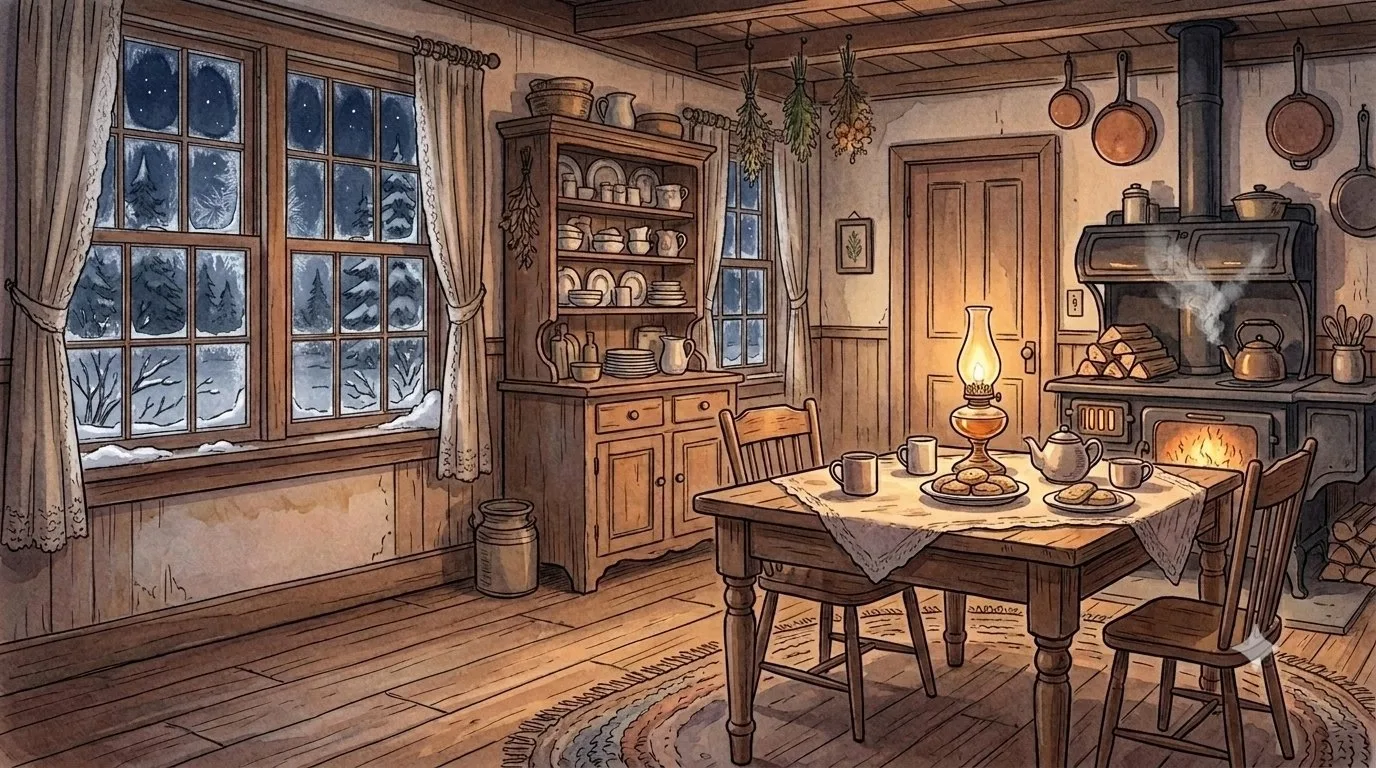
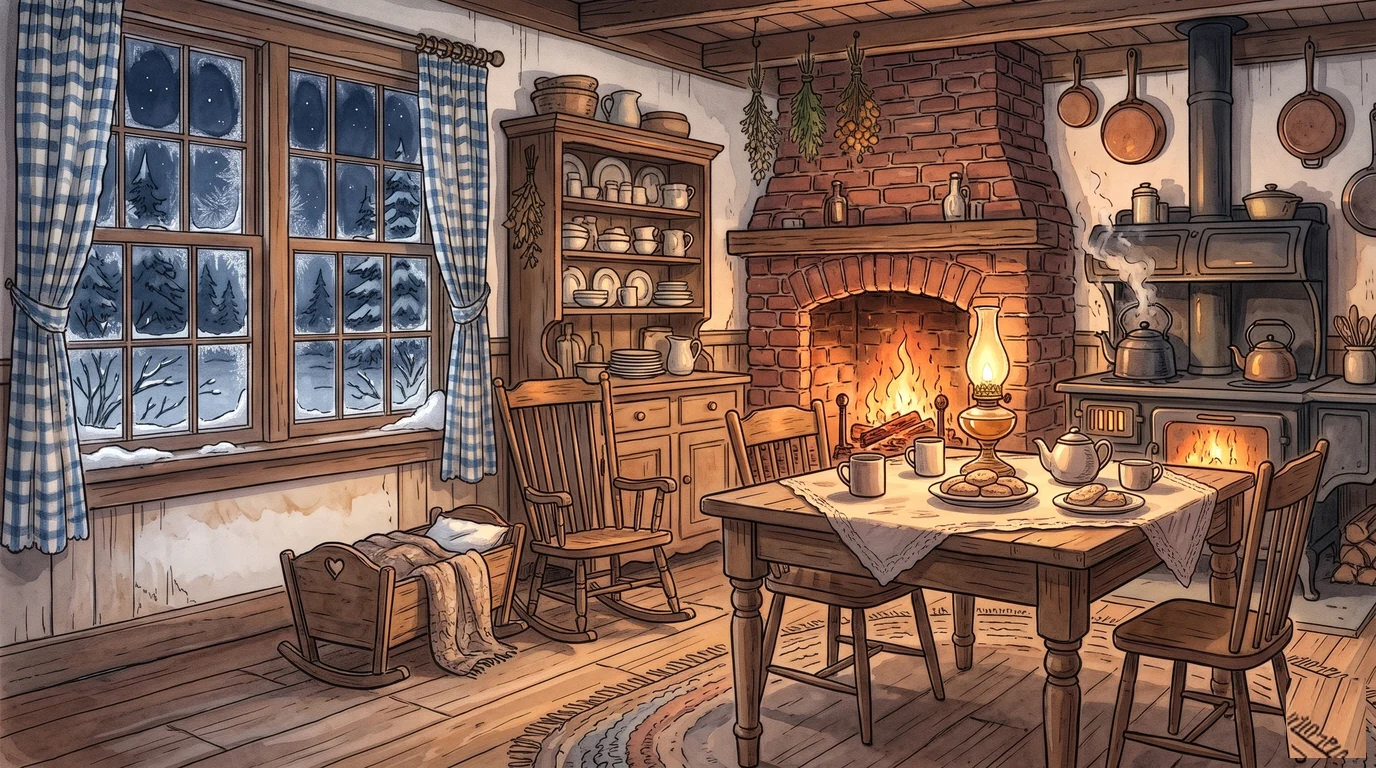
낮밤 배경 맞추기, 배리 씨네 부엌 새 그림, 인물 크기, 리본 묶기 휴대폰에서 쉽게

diff --git a/js/mini.js b/js/mini.js
@@ -488,18 +488,22 @@ MINI.trace = (m, api) => {
   tt.style.left = P[0][0] + "%"; tt.style.top = P[0][1] + "%";
   let prog = 0, down = false, off = 0, wasOff = false, devSum = 0, devN = 0, over = false;
   const toPx = p => { const r = tb.getBoundingClientRect(); return [r.left + p[0] / 100 * r.width, r.top + p[1] / 100 * r.height]; };
-  const tol = () => (m.tol || 26) * Math.max(.75, Math.min(1.2, tb.getBoundingClientRect().width / 420));
+  const touch = matchMedia("(pointer:coarse)").matches;   /* 휴대폰 손가락은 마우스보다 굵고 손가락에 가려 잘 안 보여요 */
+  const tol = () => (m.tol || 26) * Math.max(.75, Math.min(1.2, tb.getBoundingClientRect().width / 420)) * (touch ? 1.45 : 1);
+  let downAt = null, offRun = 0;
   const msg = () => api.hud(`${m.say || "점선을 따라 끝까지 그어요"} · ${Math.round(prog / (P.length - 1) * 100)}%${off ? ` · 삐뚤 ${off}번` : ""}`); msg();
   const move = (x, y) => {
     if(over) return; const r = tb.getBoundingClientRect(); tt.style.left = ((x - r.left) / r.width * 100) + "%"; tt.style.top = ((y - r.top) / r.height * 100) + "%";
     if(!down) return;
     let best = -1, bd = 1e9; for(let i = prog; i < Math.min(P.length, prog + WIN); i++){ const [px, py] = toPx(P[i]), dd = Math.hypot(px - x, py - y); if(dd < bd){ bd = dd; best = i; } }
-    if(bd > tol() * (m.wig ? 1.3 : 1.6)){ if(!wasOff){ wasOff = true; off++; SFX.no(); tb.classList.remove("shake"); void tb.offsetWidth; tb.classList.add("shake"); popAt(api, x - 40, y - 60, m.offSay || "앗, 선을 벗어났어요!"); msg(); } return; }
+    const moved = downAt ? Math.hypot(x - downAt[0], y - downAt[1]) : 99;
+    if(bd > tol() * (m.wig ? 1.3 : 1.6)){ if(moved < 18 || ++offRun < 3) return; if(!wasOff){ wasOff = true; off++; SFX.no(); tb.classList.remove("shake"); void tb.offsetWidth; tb.classList.add("shake"); popAt(api, x - 40, y - 60, m.offSay || "앗, 선을 벗어났어요!"); msg(); } return; }
+    offRun = 0;
     if(bd < tol()){ wasOff = false; devSum += bd; devN++; if(best > prog){ if((best / 9 | 0) > (prog / 9 | 0)) SFX.snip(); prog = best; $("tdone").setAttribute("d", dstr(P.slice(0, prog + 1))); msg(); } }
-    if(prog >= P.length - 2) finish();
+    if(prog >= P.length - Math.max(2, P.length * .03)) finish();   /* 끝 가까이 오면 끝(손가락이 끝점을 살짝 못 미쳐도) */
   };
-  tb.onpointerdown = e => { e.preventDefault(); const [sx, sy] = toPx(P[prog]); if(Math.hypot(sx - e.clientX, sy - e.clientY) > tol() * 1.8 && prog === 0){ popAt(api, e.clientX - 40, e.clientY - 60, "반짝이는 시작점에서 시작해요"); return; }
-    down = true; st.style.display = "none"; tb.setPointerCapture(e.pointerId); move(e.clientX, e.clientY); };
+  tb.onpointerdown = e => { e.preventDefault(); const [sx, sy] = toPx(P[prog]); if(Math.hypot(sx - e.clientX, sy - e.clientY) > tol() * (touch ? 2.6 : 1.8) && prog === 0){ popAt(api, e.clientX - 40, e.clientY - 60, "반짝이는 시작점에서 시작해요"); return; }
+    down = true; downAt = [e.clientX, e.clientY]; offRun = 0; st.style.display = "none"; tb.setPointerCapture(e.pointerId); move(e.clientX, e.clientY); };
   tb.onpointermove = e => move(e.clientX, e.clientY);
   tb.onpointerup = tb.onpointercancel = () => { down = false; };
   const finish = () => { if(over) return; over = true; tt.style.display = "none"; $("tdone").style.opacity = 0; $("tpath").style.opacity = 0;

diff --git a/js/ch6.js b/js/ch6.js
@@ -22,8 +22,8 @@ CH[6] = {
     {mini:{kind:"run", id:"snow", title:"눈길 달리기", bg:"ch6_snow", how:"다이애나와 눈 덮인 들판을 달려요. 왼쪽 아래 ▲▼ 단추로 길을 바꿔 눈더미와 쓰러진 나무를 피해요. 부딪히면 힘(♥)이 줄고, 따뜻한 등불을 지나가면 다시 차요. 갈수록 빨라져요!",
       say:"▲▼로 길을 바꿔요", time:24, obs:[{img:"run_drift", e:"❄"}, {img:"run_log", e:"🪵"}, {img:"run_rock", e:"🪨"}, {img:"run_stump", e:"🌲"}], goods:[{img:"run_lantern", e:"🏮"}], every:1150, speed:3.4, ouch:"앗, 미끄러워!", yum:"힘이 나!",
       res:{1:"몇 번 넘어졌지만 끝까지 달렸어요!", 2:"눈길을 씩씩하게 달렸어요!", 3:"바람처럼 달려 도착했어요!"}},
-     good:[["inner", "happy", "diana", "별이 총총한 밤하늘 아래를 달렸어.\n무섭기는커녕 가슴이 뛰었어."]]},
-    ["inner", "surprised", "minnie_may", "배리 씨네 부엌. 세 살 미니 메이가 뜨거운 얼굴로 숨을 쌕쌕 쉬고 있었어."],
+     good:[["inner", "happy", "diana", "별이 총총한 밤하늘 아래를 달렸어.\n무섭기는커녕 가슴이 뛰었어.", {bg:"ch6_snow"}]]},
+    ["inner", "surprised", "minnie_may", "배리 씨네 부엌. 세 살 미니 메이가 뜨거운 얼굴로 숨을 쌕쌕 쉬고 있었어.", {bg:"ch6_barry"}],
     ["inner", "dreamy", "minnie_may", "해먼드 아주머니네 쌍둥이가 후두염에 걸렸던 밤이 떠올랐어.\n그때 나는 이웃 할머니 옆에서 하나하나 도왔지.", {dream:true}],
     ["inner", "dreamy", "minnie_may", "할머니가 그러셨어. \"약도 수건도 뜨거운 물이 있어야 쓸 수 있단다.\n토하고 나면 목을 따뜻하게 감싸 주고, 그다음엔 곁에서 기다리는 거야.\"", {dream:true}],
     {mini:{kind:"slots", id:"care", title:"미니 메이 돌보기", how:"해먼드 아주머니네에서 배운 대로 차근차근 해요. 막히면 '앤의 기억'을 눌러 보세요. 그림 카드를 1번부터 4번 칸에 순서대로 놓아요. 엉뚱한 카드도 섞여 있어요! 칸에 놓은 카드를 누르면 다시 빠져요.",

diff --git a/js/ch8.js b/js/ch8.js
@@ -60,8 +60,8 @@ CH[8] = {
     ["inner", "anne_short_sad", "marilla_warm", "거울 속에는 머리가 짧은 낯선 아이가 있었어."],
     {mini:{kind:"trace", id:"ribbon", title:"리본 묶기", bg:"ch8_attic", how:"짧아진 머리에 검은 벨벳 리본을 나비 모양으로 묶어요. 시작점에서 리본 고리 두 개를 그리듯 점선을 따라 그어요.",
       say:"리본 고리를 따라 그어요", img:"anne_short_happy", crop:.36, tool:"🎀", tol:24, offSay:"리본이 풀리겠어요!",
-      path:[[47, 31], [44, 26], [40, 22], [37, 24], [37, 31], [40, 35], [44, 34], [47, 31], [50, 26], [54, 22], [57, 24], [57, 31], [54, 35], [50, 34], [47, 31], [45, 38], [43, 44]],
-      afterSvg:'<g fill="#2b2420" stroke="#111" stroke-width=".6" transform="translate(47 31) scale(.48 .6) translate(-52 -22)"><path d="M52 22 C44 10 30 8 31 18 C32 28 46 27 52 22Z"/><path d="M52 22 C60 10 74 8 73 18 C72 28 58 27 52 22Z"/><circle cx="52" cy="22" r="2.6"/><path d="M51 23 L45 38 L48 37 L52 25Z"/><path d="M53 23 L58 37 L55 36 L52 25Z"/></g>',
+      path:[[47.0, 31.0], [42.2, 23.0], [35.8, 16.6], [31.0, 19.8], [31.0, 31.0], [35.8, 37.4], [42.2, 35.8], [47.0, 31.0], [51.8, 23.0], [58.2, 16.6], [63.0, 19.8], [63.0, 31.0], [58.2, 37.4], [51.8, 35.8], [47.0, 31.0], [43.8, 42.2], [40.6, 51.8]],
+      afterSvg:'<g fill="#2b2420" stroke="#111" stroke-width=".6" transform="translate(47 31) scale(.77 .96) translate(-52 -22)"><path d="M52 22 C44 10 30 8 31 18 C32 28 46 27 52 22Z"/><path d="M52 22 C60 10 74 8 73 18 C72 28 58 27 52 22Z"/><circle cx="52" cy="22" r="2.6"/><path d="M51 23 L45 38 L48 37 L52 25Z"/><path d="M53 23 L58 37 L55 36 L52 25Z"/></g>',
       res:{1:"조금 삐뚤지만 귀여워요.", 2:"예쁘게 묶었어요!", 3:"마릴라 아주머니: \"…생각보다 잘 어울리는구나.\""}},
      good:[{eff:{get:"ribbon"}}]},
     {q:"짧아진 머리를 보며 앤은 무슨 생각을 할까요?", opts:[

diff --git a/js/engine.js b/js/engine.js
@@ -15,7 +15,7 @@ const P = {
   lynde:{name:"린드 부인 집", x:205, y:520, bg:"ch2_lynde", from:2, say:["린드 부인은 오늘도 창가에서 길을 지켜보고 계실 거야.", "린드 부인의 정원은 늘 반듯반듯해."]},
   lane:{name:"연인의 오솔길", x:1090, y:430, bg:"ch2_lane", bgW:"ch6_snow", from:2, say:["'{lane}'. 나무들이 소곤소곤 이야기하는 길이야."]},
   barry:{name:"배리 씨네 집", x:800, y:240, bg:"ch3", from:3, say:["다이애나네 집이야. 창문에 불이 켜져 있으면 괜히 기뻐져."]},
-  spring:{name:"통나무 다리 옆 샘", x:935, y:325, bg:"ch3_bridge", bgW:"ch6_snow", from:3, say:["'{spring}'. 물속에 요정이 사는 것 같아."]},
+  spring:{name:"통나무 다리 옆 샘", x:935, y:325, bg:"ch3_bridge", bgS:{spring:"ch7_spring", summer:"ch7_spring", autumn:"ch5_spring"}, bgW:"ch6_snow", from:3, say:["'{spring}'. 물속에 요정이 사는 것 같아."]},
   church:{name:"교회와 목사관", x:715, y:765, bg:"church_out", bgW:"ch6_snow", from:3, say:["교회 종소리가 들리면 일요일이야."]},
   birch:{name:"자작나무 길", x:1225, y:555, bg:"ch4_birch", bgW:"ch6_snow", from:4, say:["'{birch}'. 하얀 나무들이 줄지어 서 있어."]},
   school:{name:"에이번리 학교", x:1440, y:615, bg:"ch4", from:4, say:["학교야. 칠판 냄새가 나."]},

diff --git a/js/ch2.js b/js/ch2.js
@@ -14,7 +14,7 @@ CH[2] = {
     ["anne", "sad", "marilla_strict", "\"저를 원하지 않으시는군요! 남자아이가 아니라서요!\"\n나는 식탁에 엎드려 엉엉 울었어."],
     {eff:{met:"marilla"}},
     ["marilla", "sad", "marilla_strict", "\"울 것까지는 없다. 오늘 밤은 여기서 자거라.\""],
-    ["inner", "sad", null, "다락방은 차갑고 조용했어.\n창밖에는 꽃이 핀 벚나무가 하얗게 서 있었어.", {bg:"ch2_room"}],
+    ["inner", "sad", null, "다락방은 차갑고 조용했어.\n창밖에는 꽃이 핀 벚나무가 하얗게 서 있었어.", {bg:"ch8_attic"}],
     {q:"잠들기 전, 앤은 무엇을 할까요?", opts:[
       {t:"벚나무에게 '눈의 여왕'이라는 이름을 지어 준다.", type:"canon", then:[["inner", "dreamy", null, "\"안녕, 눈의 여왕님.\"\n이름을 붙여 주니 벚나무가 조금 친구처럼 느껴졌어."]]},
       {t:"내 머리가 노을빛이라고 노래를 지어 부른다.", type:"imag", eff:{hid:"sunsetHair"}, then:[["inner", "dreamy", null, "\"내 머리는 홍당무가 아니라 노을빛이라네~\"\n노래를 부르니 눈물이 쏙 들어갔어.", {dream:true, still:"sc_sunsetHair"}]]},

diff --git a/js/ch10.js b/js/ch10.js
@@ -40,7 +40,7 @@ CH[10] = {
   {at:"home", label:"초록 지붕 집에서 매슈 아저씨 곁에 있기", bg:"ch10_home", lock:{except:[], why:"오늘은 매슈 아저씨 곁에 있고 싶어요"}, nodes:[
     ["nar", null, null, "다음 날 아침, 매슈 아저씨가 쓰러지셨어.\n아저씨는 다시 일어나지 못하셨어."],
     ["inner", "sad", null, "아저씨는 이제 곁에 안 계셔.\n가로수길의 꽃도, 노을도 그대로인데."],
-    ["marilla", "sad", "marilla_warm", "그날 밤, 마릴라 아주머니가 내 방에 오셨어.\n\"앤… 말은 잘 못 하지만, 너를 내 딸처럼 사랑한다.\""],
+    ["marilla", "sad", "marilla_warm", "그날 밤, 마릴라 아주머니가 내 방에 오셨어.\n\"앤… 말은 잘 못 하지만, 너를 내 딸처럼 사랑한다.\"", {bg:"ch8_attic"}],
     ["anne", "sad", "marilla_warm", "\"아주머니…\"\n우리는 처음으로 서로를 안고 함께 울었어."],
     {eff:{h:{marilla:2}}},
     ["inner", "sad", null, "아저씨가 심어 두신 장미가 피면, 그 곁에 꽃을 심어 드려야지.\n아저씨가 좋아하시던 하얀 장미를."]

diff --git a/js/ch3.js b/js/ch3.js
@@ -73,6 +73,6 @@ CH[3] = {
       {t:"초콜릿이 요정 나라 보석이라고 상상하며 한 조각씩 아껴 먹는다.", type:"imag", then:[["inner", "dreamy", "matthew", "갈색 보석을 한 조각 입에 넣으니\n요정 나라의 맛이 사르르 녹았어.", {dream:true}]]},
       {t:"매슈 아저씨에게 먼저 한 조각 드린다.", type:"bal", eff:{h:{matthew:1}}, then:[["matthew", "happy", "matthew", "\"글쎄다… 나는 괜찮은데…\"\n아저씨는 쑥스러워하며 한 조각을 받으셨어."]]}
     ]},
-    ["inner", "happy", null, "그날 밤 나는 생각했어.\n나는 지금 프린스에드워드 섬에서 제일 행복한 아이야."]
+    ["inner", "happy", null, "그날 밤 나는 생각했어.\n나는 지금 프린스에드워드 섬에서 제일 행복한 아이야.", {bg:"ch8_attic"}]
   ]}
 ]};

diff --git a/설계서.md b/설계서.md
@@ -273,4 +273,12 @@ DUELS.lynde = {gauge:5, good:[`sorry`], bad:[`imag`], hint:`린드 부인은 진
 - 효과음이 없던 놀이(꽃 잡기·화 참기·박자·눈길 달리기·카드 순서·방패)에도 소리. 미니게임 안에서 ok/no 표시가 붙으면 저절로 소리(MutationObserver).
 - 개연성: 1장 공주 그림(sc_princess)은 '공주님처럼 앉아' 고를 때만. 6장 소개 '어른들 모두 시내' -> 마릴라·배리 부부만(매슈는 집에 있음). 9장(한여름) 집 배경 ch8 -> ch8_porch. 10장 마지막 '마릴라와 함께 공부' 문장 다듬기. 5장(10월) 샘가 배경을 새 가을 샘(ch5_spring, 제미나이)으로.
 
+
+### 2026-11-23 (4) 낮밤·크기 맞추기, 리본 묶기 휴대폰
+- 밤 장면은 밤 그림으로: 2장 첫날 밤·3장 '그날 밤'·10장 '그날 밤 마릴라' -> ch8_attic(밤 다락방). 6장 '별이 총총한 밤하늘 아래를 달렸어' -> ch6_snow(달밤 눈밭).
+- 6장 배리 씨네 부엌(ch6_barry)이 초록 지붕 집 부엌(ch6)과 같은 그림이던 것 -> 제미나이로 새로(파란 체크 커튼, 벽돌 벽난로, 요람).
+- 샘(spring) 장소 배경 계절 맞춤 bgS: 봄·여름 ch7_spring, 가을 ch5_spring (기본 ch3_bridge는 가을 노을이라 여름에 어색했음).
+- 인물 크기: diana_grown이 작고 아래로 처져 있던 것 키움(원본은 스크래치 orig_), minnie_may(세 살)가 어른만 하던 것 작게.
+- 따라 긋기(trace): 휴대폰(pointer:coarse)은 허용 폭 1.45배, 손을 댄 곳에서 18px 움직이기 전과 잠깐 벗어난 것(연속 3번 미만)은 틀림으로 안 셈, 끝 3% 안이면 끝. 리본 고리를 1.6배 크게.
+
 **그림 넣는 방법(지금까지 해 온 대로)**: 여러 개는 흰 배경 한 장에 줄 맞춰 그리게 해서 덩어리별로 잘라 투명 배경 webp로(물건 200~220px, 바탕 1000px 너비), 장면은 1376×768. 엣지에서 다운로드가 막히면 사이트 권한 '자동 다운로드' 허용 후 새로 고침, 다운로드 단추는 실제 마우스 클릭으로. 제미나이 그림 오른쪽 아래 반짝이 표시는 지움(cv2.inpaint). 투명 배경이 필요한 건 흰 바탕을 빼서 webp로. 여러 개가 한 장에 있으면 잘라서 각각 저장.
